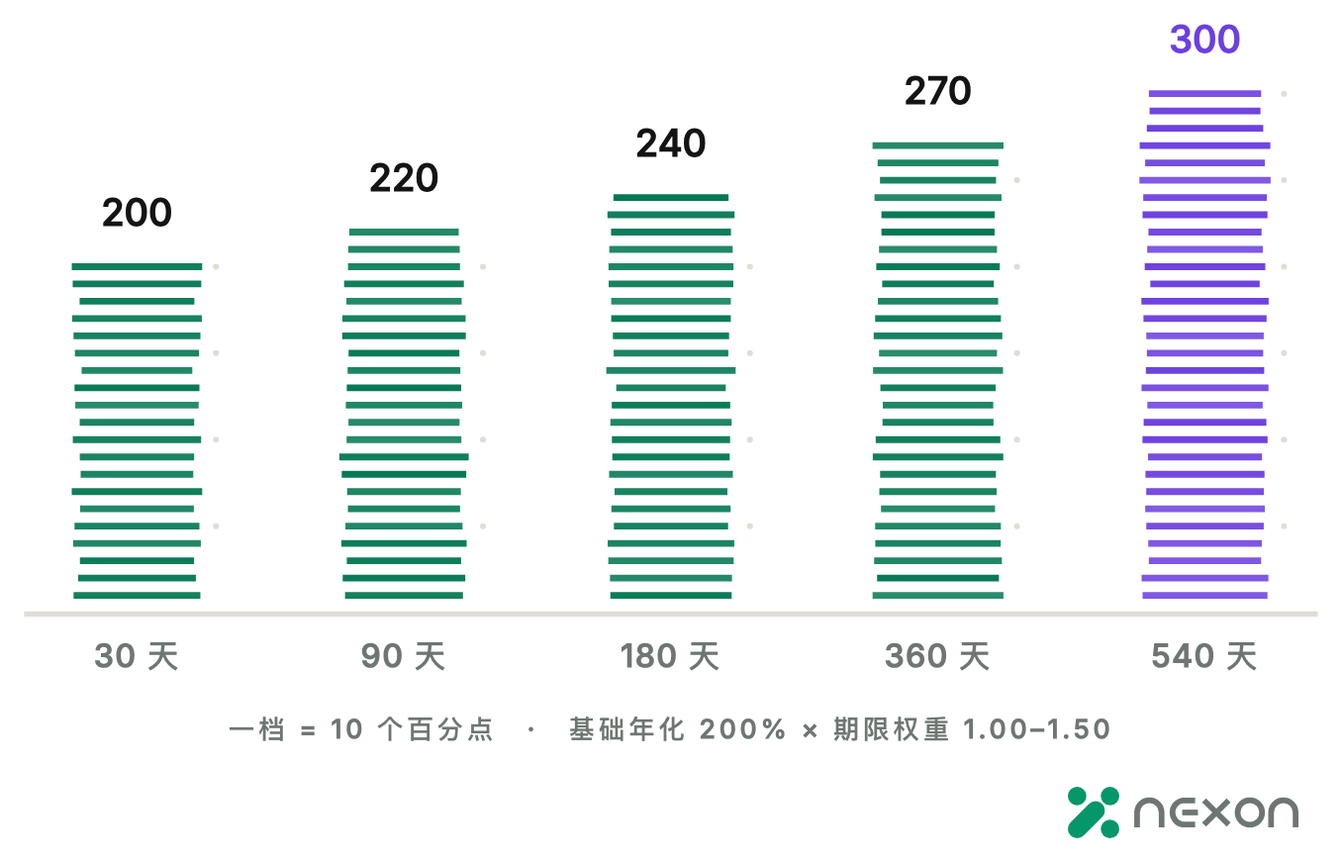
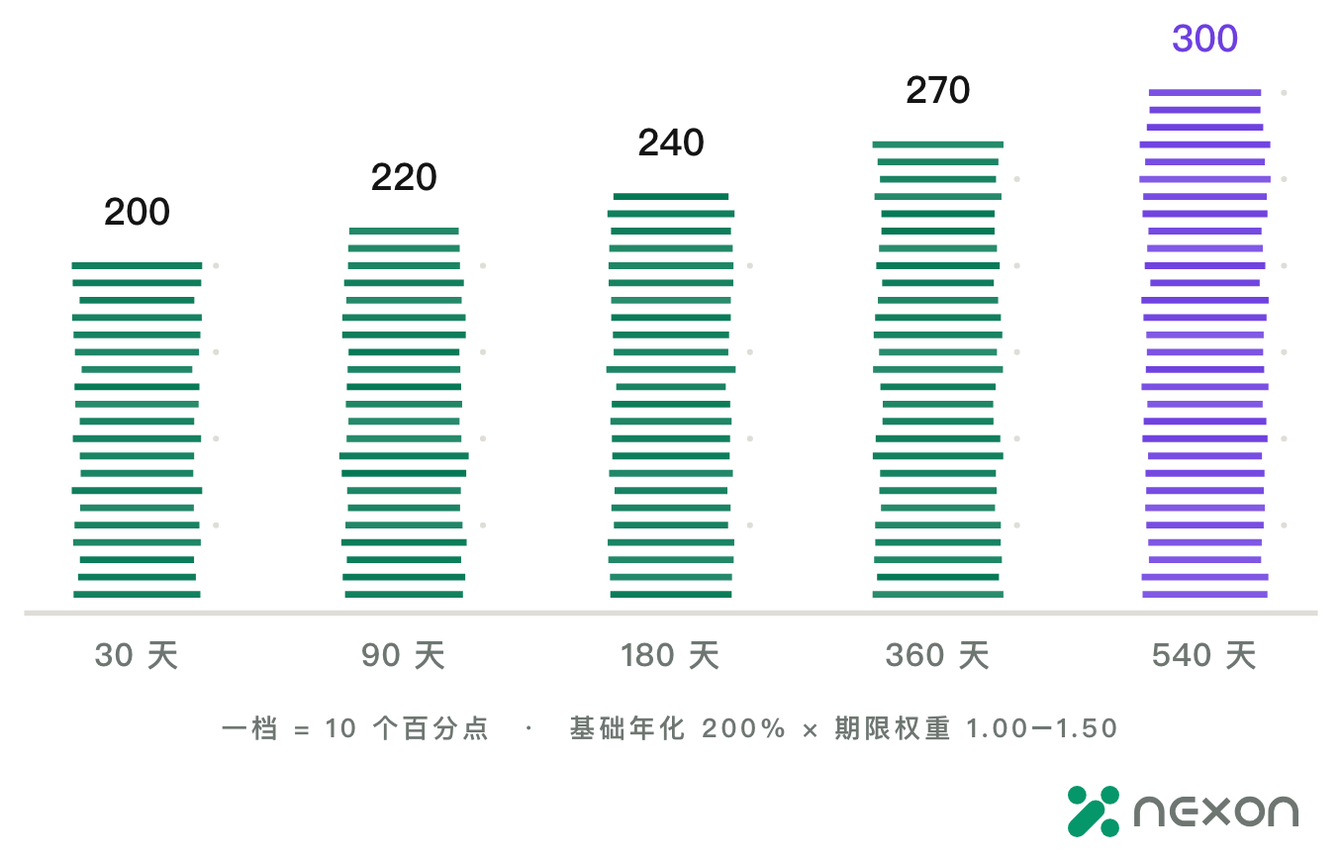
docs: trade the hotel example for a cross-border payment
The running example in chapter 1 — turning a brokerage position into four
nights in a Tokyo hotel — reads as small talk rather than as the paper's
opening argument. The route it describes is unchanged; only the endpoint
moves, from a hotel room to money that can actually be spent abroad.

Also drops every sentence that clarifies NEXON's relationship to NEX
("not an official NEX product", "its assets are not exchange tokens").
Denying the association raises the question on the reader's behalf and
then answers it. The positive half of the formulation stays.

The marketplace still lists travel and hotels as inventory categories.
That is what the product covers; removing it would make the page less
accurate, not less promotional.

Figure 03 was regenerated from output/叙事 rather than edited in place.

diff --git a/docs/en/01-the-split/README.md b/docs/en/01-the-split/README.md
@@ -7,7 +7,7 @@ icon: "link-slash"
 
 > Same value. Three languages that were never designed to meet.
 
-A position in a brokerage account, a token in a wallet and four nights in a hotel are all value. Nobody disputes that. What is harder to see is that they have never once sat on the same ledger. Each lives in a system with its own clock, its own unit of account and its own border, and the three systems were built without any expectation of meeting.
+A position in a brokerage account, a token in a wallet and a real cross-border payment are all value. Nobody disputes that. What is harder to see is that they have never once sat on the same ledger. Each lives in a system with its own clock, its own unit of account and its own border, and the three systems were built without any expectation of meeting.
 
 The usual way to say this is that capital markets, digital assets and real-world spending have long been independent of one another. That is true, and it explains nothing. Independence is the outcome. If the cause were simply that nobody had laid a pipe between them, the problem would have been solved long ago, because there is no shortage of pipes. Chains are bridged to chains. On-chain balances are spent through cards. Real-world assets are registered as tokens. The three markets remain as separate as before.
 
@@ -15,7 +15,7 @@ The usual way to say this is that capital markets, digital assets and real-world
 
 Look at what each market means by value and the separation stops being a mystery.
 
-In capital markets, value means ownership and a claim on future cash flow. It moves on a quarterly rhythm, settles on a lag, and stops at the edge of a jurisdiction. In digital assets, value means liquidity and composability. It moves every hour of every day, settles in seconds and recognizes no border — but it has almost no way to act on anything outside itself. In real-world spending, value means the right to use something: a room on a given night, a table on a given evening, a good that arrives. It is measured in time, place and availability, and it ends where a supplier's inventory ends.
+In capital markets, value means ownership and a claim on future cash flow. It moves on a quarterly rhythm, settles on a lag, and stops at the edge of a jurisdiction. In digital assets, value means liquidity and composability. It moves every hour of every day, settles in seconds and recognizes no border — but it has almost no way to act on anything outside itself. In real-world spending, value means the right to use something: an itinerary on a given date, a table on a given evening, a good that arrives. It is measured in time, place and availability, and it ends where a supplier's inventory ends.
 
 Three definitions of value. Three clocks. Three borders. None of them is wrong, and none of them can be read by the other two. That is why the markets are split: not because nobody connected them, but because they do not share a language in which a connection could be expressed. A pipe between two of them carries the value across and leaves its meaning behind, and someone — always a person — has to supply the meaning again on the far side.
 
@@ -25,7 +25,7 @@ For as long as software could only move value, that arrangement was tolerable. M
 
 This Part describes that shape. It proposes nothing. It explains the name this paper is written under, sets out the three languages, follows one ordinary request across all of them, and examines what each existing solution has actually solved. The proposal begins in Part II.
 
-<table data-view="cards"><thead><tr><th></th><th></th><th data-hidden data-card-target data-type="content-ref"></th></tr></thead><tbody><tr><td><strong>Why NEXON</strong></td><td>A tie that exists in its own right, witnessed in public, switched on. What the name fixes before anything is built.</td><td><a href="why-nexon.md">why-nexon.md</a></td></tr><tr><td><strong>Three Value Languages</strong></td><td>Ownership, liquidity, right of use. Three grammars side by side, and one hotel room that still takes a week.</td><td><a href="three-value-languages.md">three-value-languages.md</a></td></tr><tr><td><strong>Why Bridges Failed</strong></td><td>Bridges, stablecoin rails and tokenization each solved something real. What every one of them leaves out.</td><td><a href="why-bridges-failed.md">why-bridges-failed.md</a></td></tr></tbody></table>
+<table data-view="cards"><thead><tr><th></th><th></th><th data-hidden data-card-target data-type="content-ref"></th></tr></thead><tbody><tr><td><strong>Why NEXON</strong></td><td>A tie that exists in its own right, witnessed in public, switched on. What the name fixes before anything is built.</td><td><a href="why-nexon.md">why-nexon.md</a></td></tr><tr><td><strong>Three Value Languages</strong></td><td>Ownership, liquidity, right of use. Three grammars side by side, and one cross-border payment that still takes a week.</td><td><a href="three-value-languages.md">three-value-languages.md</a></td></tr><tr><td><strong>Why Bridges Failed</strong></td><td>Bridges, stablecoin rails and tokenization each solved something real. What every one of them leaves out.</td><td><a href="why-bridges-failed.md">why-bridges-failed.md</a></td></tr></tbody></table>
 
 Everything that follows in this paper is an attempt to justify one sentence, and it is worth stating before a single mechanism has been described.
 

diff --git a/docs/zh/01-the-split/README.md b/docs/zh/01-the-split/README.md
@@ -7,7 +7,7 @@ icon: "link-slash"
 
 > 同样的价值，三种从一开始就没打算互通的语言。
 
-券商账户里的一笔仓位、钱包里的一枚代币、酒店里的四个晚上，都是价值。这一点没有人会争。不容易看见的是另一件事：它们从来没有在同一本账上出现过。每一个都活在自己的系统里，各有各的时钟、各有各的计价单位、各有各的边界；而这三套系统在建造之初，从没打算要碰面。
+券商账户里的一笔仓位、钱包里的一枚代币、一次跨境的真实支付，都是价值。这一点没有人会争。不容易看见的是另一件事：它们从来没有在同一本账上出现过。每一个都活在自己的系统里，各有各的时钟、各有各的计价单位、各有各的边界；而这三套系统在建造之初，从没打算要碰面。
 
 通常的说法是：资本市场、数字资产与真实消费长期彼此独立。这话不错，但它什么也没解释。独立是结果，不是原因。如果原因只是「没人修桥」，问题早就该解决了，因为管道从来不缺。链与链之间架了桥，链上余额能刷卡花掉，现实资产也被登记成了代币。三个市场照旧各在各处。
 
@@ -15,7 +15,7 @@ icon: "link-slash"
 
 看一看每个市场说的「价值」各指什么，这种分离就不再神秘。
 
-在资本市场，价值是所有权，是对未来现金流的一份权利。它按季度的节拍走，结算有延迟，到了司法辖区的边缘就停下。在数字资产里，价值是流动性与可组合性。它每天每小时都在动，几秒内结算，不认任何国界——却几乎没有办法作用于自身之外的任何东西。在真实消费里，价值是使用某样东西的权利：某个晚上的一间房，某个傍晚的一张桌，一件送到手上的货。它以时间、地点和可用性来计量，到供应商的库存边缘为止。
+在资本市场，价值是所有权，是对未来现金流的一份权利。它按季度的节拍走，结算有延迟，到了司法辖区的边缘就停下。在数字资产里，价值是流动性与可组合性。它每天每小时都在动，几秒内结算，不认任何国界——却几乎没有办法作用于自身之外的任何东西。在真实消费里，价值是使用某样东西的权利：某个日期的一段行程，某个傍晚的一张桌，一件送到手上的货。它以时间、地点和可用性来计量，到供应商的库存边缘为止。
 
 三种价值的定义，三种时钟，三种边界。没有一种是错的，也没有一种能被另外两种读懂。市场之所以断裂，原因就在这里：不是没人把它们连起来，而是它们之间没有一种可以用来表达「连接」的共同语言。在其中两个市场之间架一根管道，价值过去了，含义留在原地；总得有人——而且永远是一个人——在管道的另一头把含义重新补上。
 
@@ -25,7 +25,7 @@ icon: "link-slash"
 
 第一部分描述的就是这个形状。它不提出任何方案。它解释这份文件所用的名字，摆出三种语言，跟着一个再普通不过的请求走完全部三个市场，再逐一检查已有的解法各自真正解决了什么。方案从第二部分开始。
 
-<table data-view="cards"><thead><tr><th></th><th></th><th data-hidden data-card-target data-type="content-ref"></th></tr></thead><tbody><tr><td><strong>为什么叫 NEXON</strong></td><td>一个独立存在的连接，被公开见证，被开启。在造出任何东西之前，这个名字先钉住了什么。</td><td><a href="why-nexon.md">why-nexon.md</a></td></tr><tr><td><strong>三种价值语言</strong></td><td>所有权、流动性、使用权。三套语法并排摆开，以及一间至今仍要花一个星期才订得到的酒店房间。</td><td><a href="three-value-languages.md">three-value-languages.md</a></td></tr><tr><td><strong>为什么桥没有解决问题</strong></td><td>跨链桥、稳定币支付、资产代币化，各自解决了真问题。它们每一个都漏掉了什么。</td><td><a href="why-bridges-failed.md">why-bridges-failed.md</a></td></tr></tbody></table>
+<table data-view="cards"><thead><tr><th></th><th></th><th data-hidden data-card-target data-type="content-ref"></th></tr></thead><tbody><tr><td><strong>为什么叫 NEXON</strong></td><td>一个独立存在的连接，被公开见证，被开启。在造出任何东西之前，这个名字先钉住了什么。</td><td><a href="why-nexon.md">why-nexon.md</a></td></tr><tr><td><strong>三种价值语言</strong></td><td>所有权、流动性、使用权。三套语法并排摆开，以及一次至今仍要花一个星期才走完的跨境支付。</td><td><a href="three-value-languages.md">three-value-languages.md</a></td></tr><tr><td><strong>为什么桥没有解决问题</strong></td><td>跨链桥、稳定币支付、资产代币化，各自解决了真问题。它们每一个都漏掉了什么。</td><td><a href="why-bridges-failed.md">why-bridges-failed.md</a></td></tr></tbody></table>
 
 本文后面的一切，都是在为一句话作论证。在描述任何一个机制之前，值得先把这句话写下来。
 

diff --git a/docs/zh/01-the-split/three-value-languages.md b/docs/zh/01-the-split/three-value-languages.md
@@ -1,5 +1,5 @@
 ---
-description: "所有权、流动性、使用权：三种没有共同语法的价值语言——以及一间至今仍要经过四个系统、花上一个星期才订得到的酒店房间。"
+description: "所有权、流动性、使用权：三种没有共同语法的价值语言——以及一次至今仍要经过四个系统、花上一个星期才走完的跨境支付。"
 icon: "comments"
 ---
 
@@ -42,15 +42,15 @@ flowchart LR
 {% endtab %}
 
 {% tab title="真实消费" %}
-这里的价值是使用某样东西的权利：你到达那晚的一间房，八点的一张桌，门口的一个包裹。它以时间、地点和可用性来计量，住在供应商的库存系统里——那是唯一能确认它的地方。这套语法里没有「仓位」或「代币」这样的词。它只认已经换成它所接受的那种钱的钱，以及一个已经证明了自己是谁的人。
+这里的价值是使用某样东西的权利：你到达那天的一段行程，八点的一张桌，门口的一个包裹。它以时间、地点和可用性来计量，住在供应商的库存系统里——那是唯一能确认它的地方。这套语法里没有「仓位」或「代币」这样的词。它只认已经换成它所接受的那种钱的钱，以及一个已经证明了自己是谁的人。
 {% endtab %}
 {% endtabs %}
 
 把三个标签页再读一遍，你会发现它们说的根本不是同一样东西。一份权利、一种兑换率、一项使用权，不是同一个对象的三个价格。它们是三个对象，而其中任何一个，另外两套语法连名字都叫不出来。
 
-## 一笔仓位，一间酒店房 <a href="#one-position-one-hotel-room" id="one-position-one-hotel-room"></a>
+## 一笔仓位，一次跨境支付 <a href="#one-position-one-payment" id="one-position-one-payment"></a>
 
-你在证券账户里持有一笔仓位，想把其中一部分收益变成十月的东京酒店。今天你要走完这条路：卖出（T+2 结算）→ 出金到银行（1–3 个工作日，跨境更久）→ 换汇（点差 + 手续费）→ 上 OTA 订房（第四次身份验证）。
+你在证券账户里持有一笔仓位，想把其中一部分收益变成能在另一个国家花出去的钱。今天你要走完这条路：卖出（T+2 结算）→ 出金到银行（1–3 个工作日，跨境更久）→ 换汇（点差 + 手续费）→ 完成消费（第四次身份验证）。
 
 {% stepper %}
 {% step %}
@@ -69,18 +69,18 @@ T+2 结算。仓位变成了现金——一笔你还碰不到的现金。
 {% endstep %}
 
 {% step %}
-### 上 OTA 订房 <a href="#book-on-a-travel-site" id="book-on-a-travel-site"></a>
-第四次身份验证。到这里，价值才终于变成了一间房。
+### 完成消费 <a href="#complete-the-payment" id="complete-the-payment"></a>
+第四次身份验证。到这里，价值才终于能用出去。
 {% endstep %}
 {% endstepper %}
 
 四个系统、四种凭证、四次身份验证、五到七个工作日。中间任何一环出问题，都要人工介入重来。
 
-卖出。等结算。汇出去。换成外币。然后到旅游网站上从头再来一遍。这里没有一步在技术上是难的。只不过在每一步，都有一个人在做翻译。
+卖出。等结算。汇出去。换成外币。然后在收单渠道上从头再来一遍。这里没有一步在技术上是难的。只不过在每一步，都有一个人在做翻译。
 
 而这条路上真正被消耗的东西，不是手续费，是你自己——每一步都是你在手动把一种价值语言翻译成另一种。这不是技术问题，是翻译问题。
 
-> 把一笔仓位变成一间酒店房，至今仍要经过四个系统、四次身份验证和一个星期。每一步都是一个人在手动把一种语言翻译成另一种。软件只会搬运价值的时候，这还可以忍受。从软件能读懂价值的那一刻起，就不再可以了。
+> 把一笔仓位变成能花出去的钱，至今仍要经过四个系统、四次身份验证和一个星期。每一步都是一个人在手动把一种语言翻译成另一种。软件只会搬运价值的时候，这还可以忍受。从软件能读懂价值的那一刻起，就不再可以了。
 
 下一节看的是这条路上已经存在的那些解法，并对每一种问同一个问题：这场翻译里，它究竟做了哪一部分。
 

diff --git a/docs/en/01-the-split/why-bridges-failed.md b/docs/en/01-the-split/why-bridges-failed.md
@@ -1,5 +1,5 @@
 ---
-description: "Bridges, stablecoin rails and tokenization each solved a real problem. None of them turns ownership into a room. Every one of them is a pipe."
+description: "Bridges, stablecoin rails and tokenization each solved a real problem. None of them turns ownership into money you can spend. Every one of them is a pipe."
 icon: "bridge"
 layout:
   width: wide
@@ -15,7 +15,7 @@ Three families of solutions have grown up along the path in the previous section
 |---|---|---|
 | Cross-chain bridges | Carrying one language between its dialects (a stablecoin on chain A → the same stablecoin on chain B) | It never handles a cross-language problem such as ownership → right of use. And bridges are the most heavily attacked class of infrastructure in the history of crypto |
 | Stablecoin payments | The last mile — turning on-chain value into money that can be spent | Covers only one direction among the three markets (digital → spending), and only one way. It does not ask where the money came from, and it does not come back |
-| RWA / asset tokenization | The registration problem of bringing a real-world asset on-chain | Tokenizing a share does not let you book a hotel with it. It brought the asset up; it did not translate the language |
+| RWA / asset tokenization | The registration problem of bringing a real-world asset on-chain | Tokenizing a share does not let you pay for something abroad with it. It brought the asset up; it did not translate the language |
 
 {% tabs %}
 {% tab title="Bridges" %}
@@ -27,7 +27,7 @@ A stablecoin rail solves the last mile: on-chain value becomes money a merchant 
 {% endtab %}
 
 {% tab title="Tokenization" %}
-Tokenizing a real-world asset solves a registration problem: a claim that lived in one system now has a representation in another. The asset has been brought on-chain; its language has not been translated. A tokenized share is still a claim on ownership and future cash flow, subject to the jurisdiction that issued it — a new address, not a new grammar. Tokenizing a share does not let you book a hotel with it.
+Tokenizing a real-world asset solves a registration problem: a claim that lived in one system now has a representation in another. The asset has been brought on-chain; its language has not been translated. A tokenized share is still a claim on ownership and future cash flow, subject to the jurisdiction that issued it — a new address, not a new grammar. Tokenizing a share does not let you pay for something abroad with it.
 {% endtab %}
 {% endtabs %}
 
@@ -53,7 +53,7 @@ Lay the three on the map and the pattern is hard to miss. Bridges run along one 
 
 ## The common flaw
 
-The three share one flaw, and it is not a flaw of execution. They are all pipes. A pipe carries; it does not understand. What goes in is what comes out, and anything that has to change kind along the way — a claim into cash, cash into a room — is done outside the pipe, by a person, at each end. That semantic conversion is the actual work, and to this day it is still done by hand.
+The three share one flaw, and it is not a flaw of execution. They are all pipes. A pipe carries; it does not understand. What goes in is what comes out, and anything that has to change kind along the way — a claim into cash, cash into money that can be spent — is done outside the pipe, by a person, at each end. That semantic conversion is the actual work, and to this day it is still done by hand.
 
 <details>
 

diff --git a/docs/en/01-the-split/three-value-languages.md b/docs/en/01-the-split/three-value-languages.md
@@ -1,5 +1,5 @@
 ---
-description: "Ownership, liquidity, right of use: three languages of value with no shared grammar — and one hotel room that still takes four systems and a week."
+description: "Ownership, liquidity, right of use: three languages of value with no shared grammar — and one cross-border payment that still takes four systems and a week."
 icon: "comments"
 ---
 
@@ -42,15 +42,15 @@ Value here is liquidity: how quickly and how cheaply one position can become ano
 {% endtab %}
 
 {% tab title="Real-world spending" %}
-Value here is the right to use something: a room on the night you arrive, a table at eight, a parcel at your door. It is measured in time, place and availability, and it lives in a supplier's inventory system, the only place it can be confirmed. This grammar has no word for a position or a token. It recognizes money already turned into money it accepts, and a person who has proved who they are.
+Value here is the right to use something: an itinerary for the day you arrive, a table at eight, a parcel at your door. It is measured in time, place and availability, and it lives in a supplier's inventory system, the only place it can be confirmed. This grammar has no word for a position or a token. It recognizes money already turned into money it accepts, and a person who has proved who they are.
 {% endtab %}
 {% endtabs %}
 
 Read the three tabs again and notice that none of them is describing the same thing. A claim, a rate of exchange and a right of use are not three prices for one object. They are three objects, each of which the other two grammars cannot even name.
 
-## One position, one hotel room
+## One position, one cross-border payment
 
-You hold a position in an equities account and want to turn part of what it earned into a hotel in Tokyo in October. Today, the request travels like this.
+You hold a position in an equities account and want to turn part of what it earned into money you can actually spend in another country. Today, the request travels like this.
 
 {% stepper %}
 {% step %}
@@ -70,7 +70,7 @@ Spread + fees. A third system, a third set of credentials.
 
 {% step %}
 ### Book on a travel site
-The fourth identity check. Only here does the value finally become a room.
+The fourth identity check. Only here can the value finally be spent.
 {% endstep %}
 {% endstepper %}
 
@@ -80,7 +80,7 @@ Sell. Wait for settlement. Wire it out. Convert the currency. Then start over on
 
 And what is actually consumed on this path is not the fees. It is you — at every step, you are the one manually translating one language of value into another. This is not a technical problem. It is a translation problem.
 
-> Turning a position into a hotel room still takes four systems, four identity checks and a week. Every step is a human manually translating one language into another. That was tolerable when software could only move value. It stopped being tolerable the moment software could understand it.
+> Turning a position into money you can spend still takes four systems, four identity checks and a week. Every step is a human manually translating one language into another. That was tolerable when software could only move value. It stopped being tolerable the moment software could understand it.
 
 The next section looks at the solutions that already exist along this path and asks, of each one, which part of the translation it actually performed.
 

diff --git a/docs/zh/01-the-split/why-bridges-failed.md b/docs/zh/01-the-split/why-bridges-failed.md
@@ -1,5 +1,5 @@
 ---
-description: "跨链桥、稳定币支付、资产代币化，各自解决了一个真问题。没有一个能把所有权变成一间房。它们每一个，都是管道。"
+description: "跨链桥、稳定币支付、资产代币化，各自解决了一个真问题。没有一个能把所有权变成能花出去的钱。它们每一个，都是管道。"
 icon: "bridge"
 layout:
   width: wide
@@ -15,7 +15,7 @@ layout:
 |---|---|---|
 | 跨链桥 | 同一种语言在不同方言之间的搬运（链 A 的 USDC → 链 B 的 USDC） | 它从不处理「股权 → 使用权」这类跨语言问题。而且桥是加密史上被攻击最惨的一类基建 |
 | 稳定币支付 | 最后一公里——把链上价值变成能花的钱 | 只覆盖三个市场里的一个方向（数字 → 消费），而且是单向的。它不管钱从哪来，也不回头 |
-| RWA / 资产代币化 | 把现实资产搬上链的登记问题 | 代币化一只股票，不等于你能用它订酒店。它把资产搬上来了，没把语言翻过来 |
+| RWA / 资产代币化 | 把现实资产搬上链的登记问题 | 代币化一只股票，不等于你能用它在境外付一笔款。它把资产搬上来了，没把语言翻过来 |
 
 {% tabs %}
 {% tab title="跨链桥" %}
@@ -27,7 +27,7 @@ layout:
 {% endtab %}
 
 {% tab title="资产代币化" %}
-把一项现实资产代币化，解决的是一个登记问题：原本活在一个系统里的权利，现在在另一个系统里有了一个表示。资产被搬上链了；它的语言没有被翻译。一只代币化的股票，仍然是对所有权和未来现金流的一份权利，仍然受发行它的那个司法辖区管辖——一个新地址，不是一套新语法。代币化一只股票，不等于你能用它订酒店。
+把一项现实资产代币化，解决的是一个登记问题：原本活在一个系统里的权利，现在在另一个系统里有了一个表示。资产被搬上链了；它的语言没有被翻译。一只代币化的股票，仍然是对所有权和未来现金流的一份权利，仍然受发行它的那个司法辖区管辖——一个新地址，不是一套新语法。代币化一只股票，不等于你能用它在境外付一笔款。
 {% endtab %}
 {% endtabs %}
 
@@ -53,7 +53,7 @@ flowchart LR
 
 ## 共同的缺陷 <a href="#the-common-flaw" id="the-common-flaw"></a>
 
-三者有一个共同的缺陷，而且不是执行层面的缺陷：它们都是管道。而管道只负责搬运，不负责理解。进去的是什么，出来的就是什么；任何在途中必须改变种类的东西——一份权利变成现金，现金变成一间房——都得在管道之外，由一个人在两头分别去做。那才是真正的活。管道两端的语义转换，到今天仍然由人来做。
+三者有一个共同的缺陷，而且不是执行层面的缺陷：它们都是管道。而管道只负责搬运，不负责理解。进去的是什么，出来的就是什么；任何在途中必须改变种类的东西——一份权利变成现金，现金变成能用出去的钱——都得在管道之外，由一个人在两头分别去做。那才是真正的活。管道两端的语义转换，到今天仍然由人来做。
 
 <details>
 

diff --git a/docs/en/01-the-split/why-nexon.md b/docs/en/01-the-split/why-nexon.md
@@ -13,7 +13,7 @@ A name should carry the sentence in front of it. This one is built from two halv
 
 NEX comes from **nexus**: the point where things that were never designed as one system are joined. It also carries the sense of crossing a domain — value moving from one context into another where the rules are not the same.
 
-The distinction matters. A capital-market position, a token in a wallet and a hotel reservation can all hold value, but they are not interchangeable instances of one object. They have different issuers, different legal meanings, different settlement processes and different ways of going wrong. NEXON does not start from the claim that one chain or one app can erase those differences. It starts somewhere plainer: make the relationship among them legible enough that a person can state the outcome they want and follow the route that reaches it.
+The distinction matters. A capital-market position, a token in a wallet and an offline purchase can all hold value, but they are not interchangeable instances of one object. They have different issuers, different legal meanings, different settlement processes and different ways of going wrong. NEXON does not start from the claim that one chain or one app can erase those differences. It starts somewhere plainer: make the relationship among them legible enough that a person can state the outcome they want and follow the route that reaches it.
 
 ## + ON — enabled and online
 
@@ -50,7 +50,7 @@ The same `ON` appears in NEXON and in EXON, and it means the same thing in both:
 
 ## Where NEXON stands relative to NEX
 
-NEXON is an independent, community-initiated project built within the NEX ecosystem. It is not an official NEX product, and its assets are not exchange tokens. That formulation stays constant throughout this paper.
+NEXON is an independent, community-initiated project built within the NEX ecosystem. That formulation stays constant throughout this paper.
 
 The name by itself settles nothing about how a route is built, who executes it or what economic terms apply. Those need their own specifications. So this paper keeps three kinds of statement apart: the **narrative** explains why NEXON exists, the **Tokenomics** defines the economics operating now, and the **Roadmap** describes what the ecosystem may grow next. None of the three is evidence for either of the others.
 

diff --git a/docs/zh/01-the-split/why-nexon.md b/docs/zh/01-the-split/why-nexon.md
@@ -13,7 +13,7 @@ icon: link
 
 NEX 取自 **Nexus**：一批原本不是按同一个系统设计的东西，在某一点上连起来。它同时指跨域——价值从一种语境进入另一种语境，而两边的规则并不天然相同。
 
-这个区别很要紧。券商账户里的一笔仓位、钱包里的一枚代币、一张酒店订单，都可以承载价值，但它们不是可以互换的同一种对象。它们的发行主体不同、法律含义不同、结算方式不同、出问题的方式也不同。NEXON 不从「一条链或一个 App 可以抹掉这些差异」出发。它的起点更朴素：把它们之间的关系写得足够清楚，让一个人能够说出他想要的结果，并且看懂通向那个结果的路。
+这个区别很要紧。券商账户里的一笔仓位、钱包里的一枚代币、一笔线下消费，都可以承载价值，但它们不是可以互换的同一种对象。它们的发行主体不同、法律含义不同、结算方式不同、出问题的方式也不同。NEXON 不从「一条链或一个 App 可以抹掉这些差异」出发。它的起点更朴素：把它们之间的关系写得足够清楚，让一个人能够说出他想要的结果，并且看懂通向那个结果的路。
 
 ## + ON —— 开启与在线 <a href="#on-enabled-and-online" id="on-enabled-and-online"></a>
 
@@ -50,7 +50,7 @@ NEX 取自 **Nexus**：一批原本不是按同一个系统设计的东西，在
 
 ## NEXON 与 NEX 的关系 <a href="#where-nexon-stands-relative-to-nex" id="where-nexon-stands-relative-to-nex"></a>
 
-NEXON 是在 NEX 生态内由社区发起的独立项目，不是 NEX 的官方产品，它的资产也不是交易所平台币。这一点在本文中始终按同一口径表述。
+NEXON 是在 NEX 生态内由社区发起的独立项目。这一点在本文中始终按同一口径表述。
 
 名字本身不决定路径怎么构造、由谁执行、按什么经济条款运行。这些都要靠各自的规格来定义。所以这份白皮书把三类陈述分得很开：**叙事**说明 NEXON 为什么存在，**Tokenomics** 定义当前经济计算，**Roadmap** 描述生态后面可能长出什么。三者互相不能当作对方的证据。
 

diff --git a/docs/en/02-the-translator/README.md b/docs/en/02-the-translator/README.md
@@ -77,7 +77,7 @@ The order exists to prevent three very common confusions:
 * **Permission is not settlement.** An instruction sent is not an order filled.
 * **Settlement is not delivery.** Money reaching a merchant does not mean the room is booked.
 
-A user can authorize an EXON spot order without authorizing a hotel purchase. A digital payment can settle while the merchant never fulfills. Keeping those three apart in the record is the most practical thing this structure buys.
+A user can authorize an EXON spot order without authorizing that purchase. A digital payment can settle while the merchant never fulfills. Keeping those three apart in the record is the most practical thing this structure buys.
 
 ## Connection without erasure
 
@@ -102,7 +102,7 @@ The relationship between the two is architectural, not permissional. An agent do
 
 <summary>Why not just build one app that does everything</summary>
 
-Because an interface cannot absorb responsibility. An app can merge four screens into one; it cannot merge four legal obligations into one. When a hotel booking fails, the party that can fix it is still the hotel. When an on-chain transfer is irreversible, no interface can call it back.
+Because an interface cannot absorb responsibility. An app can merge four screens into one; it cannot merge four legal obligations into one. When a supplier fails to deliver, the party that can fix it is still the supplier. When an on-chain transfer is irreversible, no interface can call it back.
 
 A unified experience and unified responsibility are different things, and a product that conflates them drops the user into an accountability gap the first time something fails. That is why NEXON describes a connection network rather than an omnipotent app: **the experience can be one; responsibility stays where it is, and says whose it is.**
 

diff --git a/docs/zh/02-the-translator/README.md b/docs/zh/02-the-translator/README.md
@@ -75,9 +75,9 @@ flowchart LR
 
 * **好路径 ≠ 有权限。** 系统算出一条最优路，不等于它被允许走。
 * **有权限 ≠ 已结算。** 指令发出去了，不等于对面已经成交。
-* **已结算 ≠ 已交付。** 钱到了商户账上，房间不一定订上了。
+* **已结算 ≠ 已交付。** 钱到了商户账上，东西不一定交付了。
 
-用户可以批准一笔 EXON 现货操作，而完全没有批准酒店订单；数字支付可能成功，商户仍未履约。把这三件事分开记，是这套结构最实际的一处收益。
+用户可以批准一笔 EXON 现货操作，而完全没有批准那一笔消费；数字支付可能成功，商户仍未履约。把这三件事分开记，是这套结构最实际的一处收益。
 
 ## 连接不等于抹平边界 <a href="#connection-without-erasure" id="connection-without-erasure"></a>
 
@@ -102,7 +102,7 @@ flowchart LR
 
 <summary>为什么不干脆做成一个全能 App</summary>
 
-因为责任无法被界面吸收。一个 App 可以把四个系统的界面合成一个，但它合并不了四份法律义务。当酒店没入住成功时，能解决问题的仍然是酒店；当链上转账不可逆时，没有任何界面能把它撤回。
+因为责任无法被界面吸收。一个 App 可以把四个系统的界面合成一个，但它合并不了四份法律义务。当供应商没有履约时，能解决问题的仍然是供应商；当链上转账不可逆时，没有任何界面能把它撤回。
 
 统一体验和统一责任是两件事。把它们混为一谈的产品，会在第一次失败时把用户扔进一个没人负责的空档里。所以 NEXON 描述的是「连接网络」而不是「全能 App」——**体验可以统一，责任必须留在原处并且写清楚是谁。**
 

diff --git a/docs/en/README.md b/docs/en/README.md
@@ -22,7 +22,7 @@ layout:
 
 > **From Capital to Token. From Digital to Real.**
 
-A position in a brokerage account, a token in a wallet and four nights in Tokyo in October are all value. None of them has ever sat on the same ledger. Turning the first into the third still takes four systems, four identity checks and about a week — and at every step, a person is manually translating one language of value into another.
+A position in a brokerage account, a token in a wallet and a real cross-border payment are all value. None of them has ever sat on the same ledger. Turning the first into the third still takes four systems, four identity checks and about a week — and at every step, a person is manually translating one language of value into another.
 
 **NEXON = NEX (Nexus) + ON (enabled and online).** The name states the job: take that translation out of human hands and make it a product layer you can see, permission and hold to account.
 
@@ -104,6 +104,6 @@ flowchart LR
 
 If you want the arithmetic first, jump to [Worked Examples](05-tokenomics/worked-examples.md). If you want to know who is responsible for each leg and who resolves a failure, jump to [Protocol Architecture](03-architecture/README.md).
 
-NEXON is an independent, community-initiated project built within the NEX ecosystem. It is not an official NEX product.
+NEXON is an independent, community-initiated project built within the NEX ecosystem.
 
 *Economic parameters and calculations in this paper come from the project's Tokenomics approved on 6 September 2026. Every return calculation states the price assumption it rests on; the full legal and risk statement is in the [Legal Disclaimer](legal-disclaimer/README.md).*
